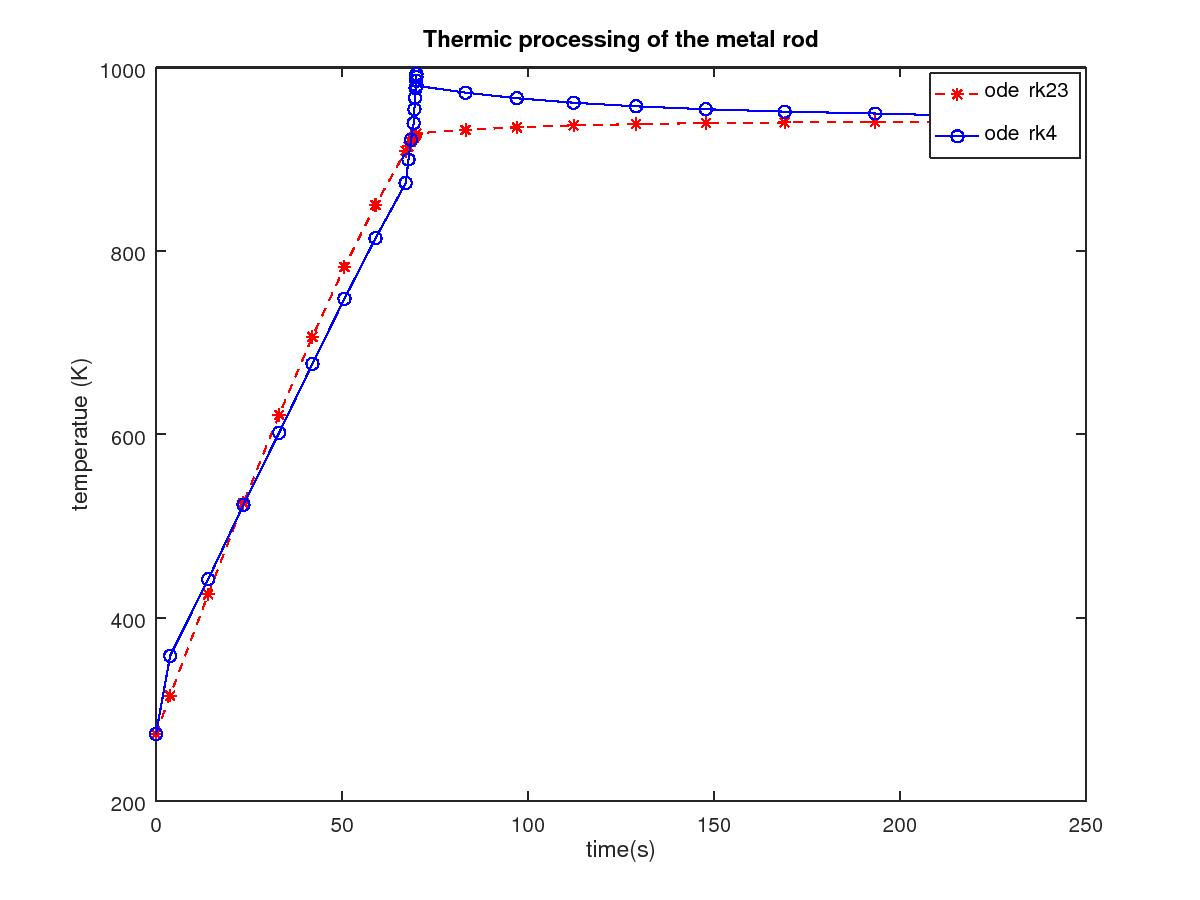
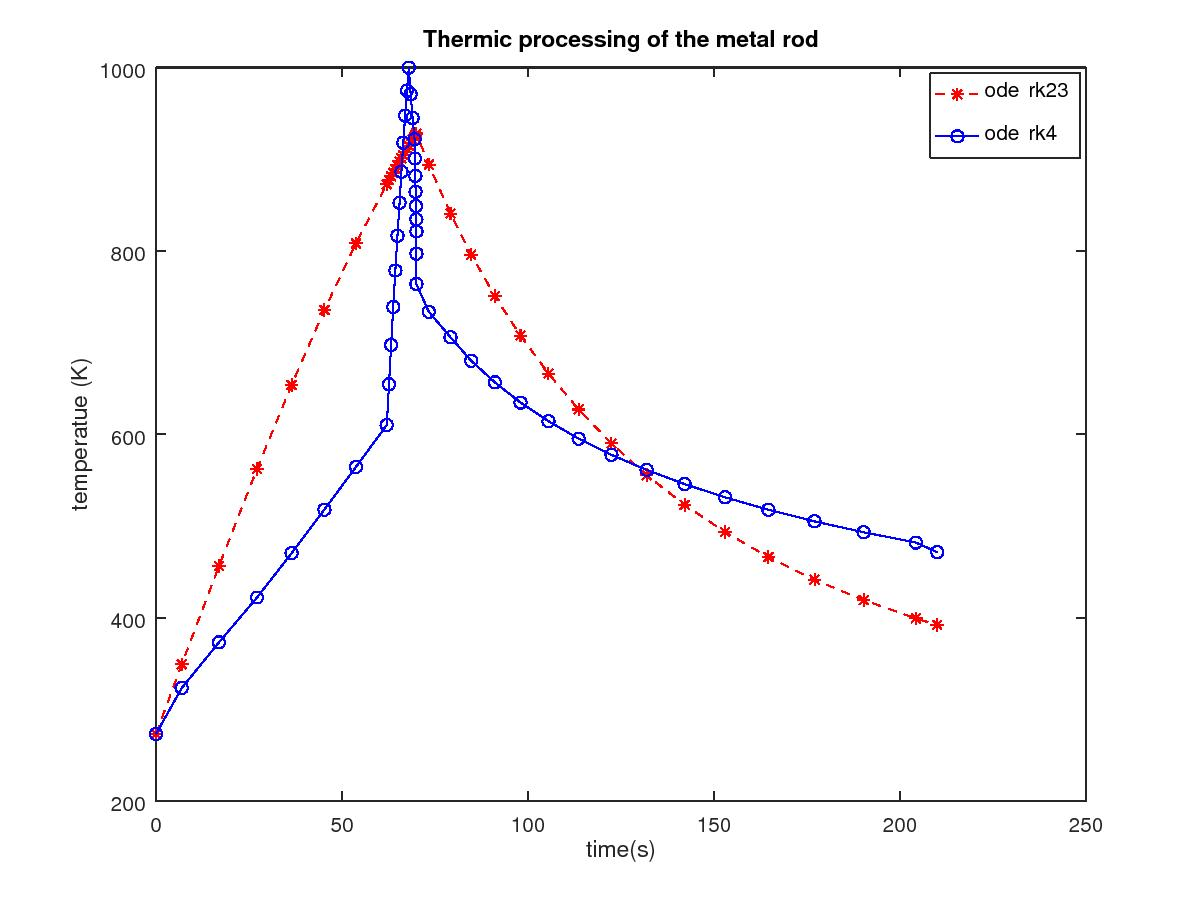
ADD app/mechsys

diff --git a/application/mechanicalSystem/ode_rk23v.m b/application/mechanicalSystem/ode_rk23v.m
@@ -1,0 +1,36 @@
+function [x,y]=ode_rk23v(f,y0,a,b,tol)
+  p = 2; %red 2 
+	x(1)=a;
+	y(:,1)=y0;
+
+	k1 = @(x,y,h) f(x,y);
+	k2 = @(x,y,h) f(x+1/4*h,y+h*1/4*k1(x,y,h));
+	k3 = @(x,y,h) f(x+27/40*h,y+h*((-189/800)*k1(x,y,h)+(729/800)*k2(x,y,h)));
+	k4 = @(x,y,h) f(x+h,y+h*((214/891)*k1(x,y,h)+(1/33)*k2(x,y,h)+(650/891)*k3(x,y,h)));
+
+	fi=@(x,y,h) (214/891)*k1(x,y,h)+(1/33)*k2(x,y,h)+(650/891)*k3(x,y,h);
+	fi_=@(x,y,h) (533/2106)*k1(x,y,h)+0*k2(x,y,h)+(800/1053)*k3(x,y,h)+(-1/78)*k4(x,y,h);
+
+	i = 1; 
+	while x(i)<b
+		  if i==1
+		      h(i)=b-a;
+		  else
+		      h(i)=0.9*h(i-1)*((tol/abs(y(1,i)-y_(1,i)))^(1/(p+1)));
+		  end
+		  if x(i)+h(i)>b
+		      h(i)=b-x(i);
+		  end
+		  y(:,i+1)=y(:,i)+h(i)*fi(x(i),y(:,i),h(i)); 
+		  y_(:,i+1)=y(:,i)+h(i)*fi_(x(i),y(:,i),h(i)); 
+		  while(abs(y_(:,i+1)-y(:,i+1))>tol)
+		          h(i)=0.9*h(i)*((tol/abs(y(1,i+1)-y_(1,i+1)))^(1/(p+1)));
+		          if x(i)+h(i)>b
+		              h(i)=b-x(i);
+		          end
+		          y(:,i+1)=y(:,i)+h(i)*fi(x(i),y(:,i),h(i));
+		          y_(:,i+1)=y(:,i)+h(i)*fi_(x(i),y(:,i),h(i));
+		  end 
+		  x(i+1)=x(i)+h(i);
+		  i=i+1;
+	end

diff --git a/predictorCorrector/ode_pred_cor.m b/predictorCorrector/ode_pred_cor.m
@@ -1,0 +1,25 @@
+function [x,y]=ode_pred_cor(f,a,b,y0,n,m)
+  x(1)=a;
+  y(1)=y0;
+  h=(b-a)/n;
+  x=a:h:b;
+  [yy]=ode_rk4_ABM(f,x,h,y0,4);
+  y(2)=yy(2); y(3)=yy(3); y(4)=yy(4);
+  f1=f(x(1),y(1));
+  f2=f(x(2),y(2));
+  f3=f(x(3),y(3));
+  f4=f(x(4),y(4));
+  for i=4:length(x)-1
+    p=y(i)+(h/24)*(55*f4-59*f3+37*f2-9*f1);
+    f5=f(x(i+1),p);
+    for j=1:m
+      y(i+1)=y(i)+(h/24)*(9*f5+19*f4-5*f3+f2);
+      f5=f(x(i+1),y(i+1));
+      f1=f2;
+    end
+    f1=f2;
+    f2=f3;
+    f3=f4;
+    f4=f(x(i+1),y(i+1));
+  end
+end

diff --git a/application/mechanicalSystem/main_mech_sys.m b/application/mechanicalSystem/main_mech_sys.m
@@ -1,0 +1,18 @@
+function main_mech_sys
+  a=0;
+  b=1.5;
+  tol=1e-5;
+  y0=[0;0];
+  [t,y]=ode_rk23v(@mech_sys_func,y0,a,b,tol);
+  figure(1)
+  subplot(2,1,1)
+  plot(t,y(1,:),'r')
+  xlabel('t');
+  ylabel('x(t)')
+  title('Solution graph for x(t)')
+  subplot(2,1,2)
+  plot(t,y(2,:),'r')
+  xlabel('t')
+  ylabel('x`(t)')
+  title('Solution graph for x`(t)')
+end

diff --git a/application/metalRod/term_obrada_funkcija.m b/application/metalRod/term_obrada_funkcija.m
@@ -16,8 +16,10 @@ function rj=term_obrada_funkcija(t,T)
   m=ro*V;             % mass of the rod
   if t<th
     H=H1;
+    rj=(1/(m*c))*(Qe-Ap*(H*(T-T0)+e*sigma*(T^4 - T0^4)));
   else
     H=H2;
+    rj=(1/(m*c))*(-Ap*(H*(T-T0)+e*sigma*(T^4 - T0^4)));
   end
-  rj=(1/(m*c))*(Qe-Ap*(H*(T-T0)+e*sigma*(T^4 - T0^4)));
+  
 end

diff --git a/application/mechanicalSystem/mech_sys_func.m b/application/mechanicalSystem/mech_sys_func.m
@@ -1,0 +1,8 @@
+function [d]=mech_sys_func(t,y)
+  zeta=0.1;
+  a0=9.8;
+  omegan=35;
+  d(1)=y(2);
+  d(2)=a0-2*zeta*omegan*y(2)-(omegan^2)*y(1);
+  d=d';
+end
